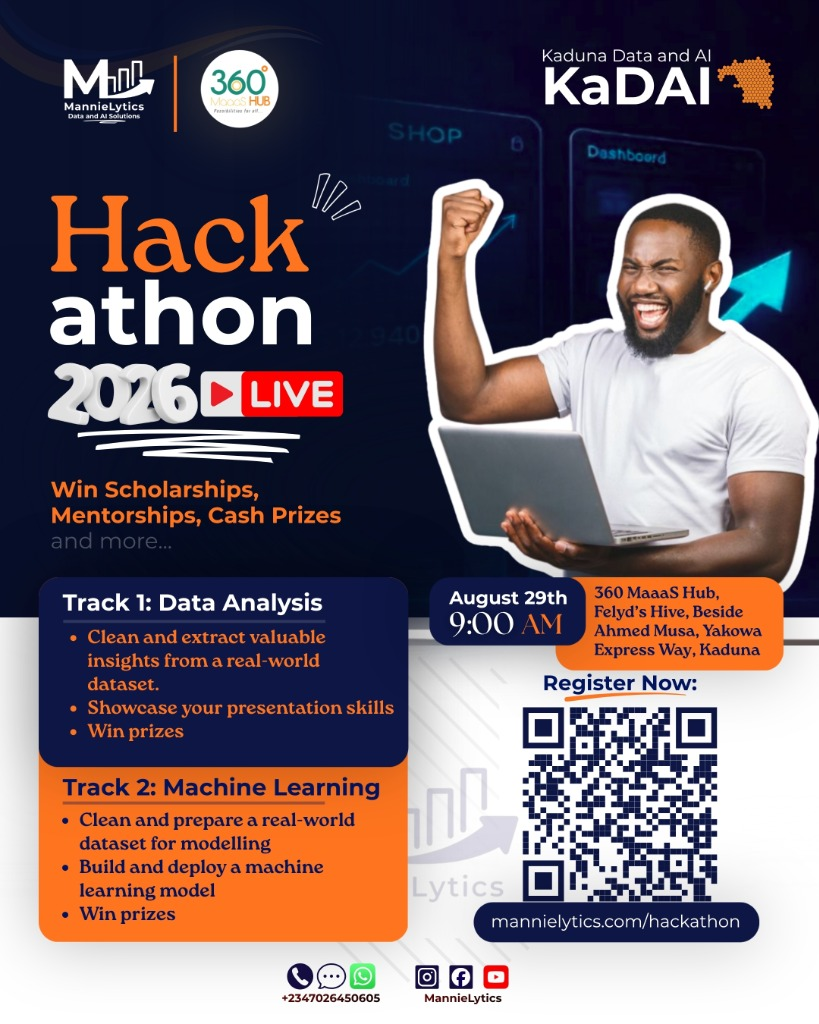
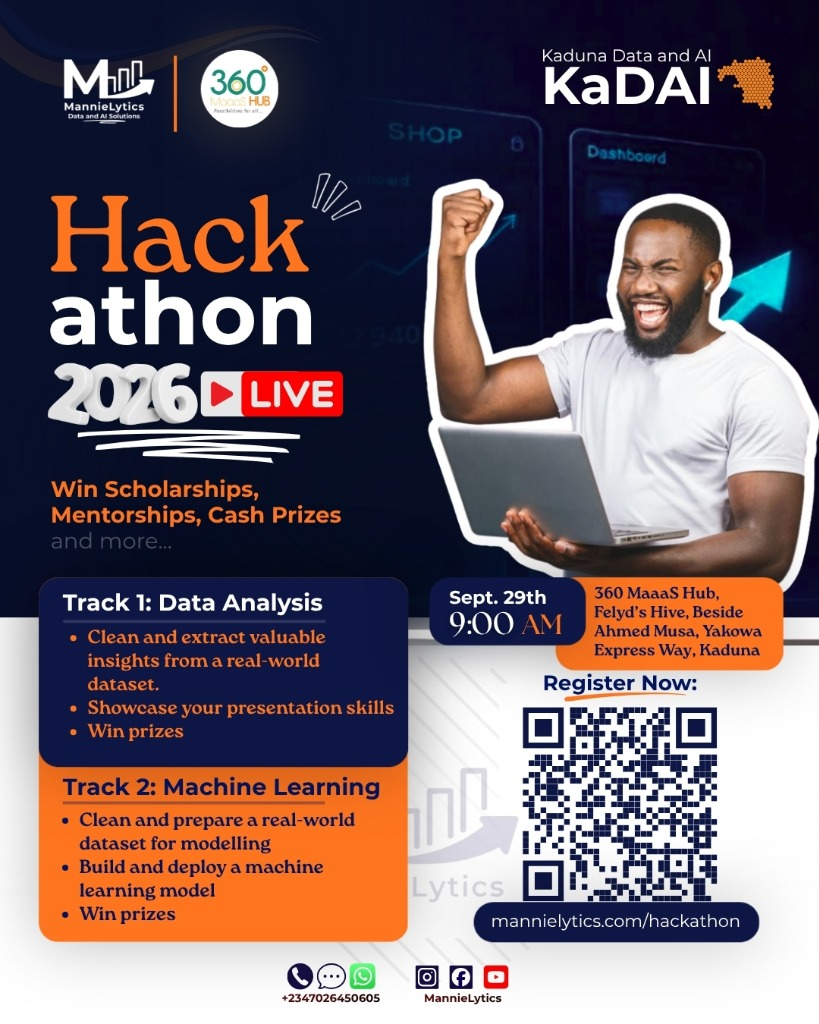
Update hackathon flyer and event date to Sept 29th

diff --git a/templates/core/hackathon.html b/templates/core/hackathon.html
@@ -3,7 +3,7 @@
 
 {% block title %}KaDAI Summit Mini-Hackathon | MannieLytics{% endblock %}
 
-{% block meta_description %}Join the KaDAI Summit Mini-Hackathon on Saturday, August 29, 2026. Turn theoretical knowledge into real-world business insights across Data Analysis & AI/ML tracks.{% endblock %}
+{% block meta_description %}Join the KaDAI Summit Mini-Hackathon on Tuesday, September 29, 2026. Turn theoretical knowledge into real-world business insights across Data Analysis & AI/ML tracks.{% endblock %}
 
 {% block content %}
 <!-- Hero Section -->
@@ -20,7 +20,7 @@
                 <!-- Event Pill -->
                 <div class="inline-flex items-center gap-2 px-4 py-1.5 rounded-full bg-slate-800 border border-slate-700 text-slate-300 text-xs sm:text-sm font-medium">
                     <span class="w-2 h-2 rounded-full bg-emerald-400 animate-pulse"></span>
-                    <span>KaDAI Summit Pre-Event • Saturday, August 29, 2026</span>
+                    <span>KaDAI Summit Pre-Event • Tuesday, September 29, 2026</span>
                 </div>
 
                 <!-- Main Title -->
@@ -37,7 +37,7 @@
                 <div class="pt-2 grid grid-cols-2 sm:grid-cols-4 gap-3 text-left">
                     <div class="p-3 rounded-xl bg-slate-800/80 border border-slate-700/80">
                         <p class="text-[11px] text-slate-400 uppercase font-semibold">Date</p>
-                        <p class="text-xs sm:text-sm font-semibold text-white mt-0.5">Sat, Aug 29, 2026</p>
+                        <p class="text-xs sm:text-sm font-semibold text-white mt-0.5">Tue, Sept 29, 2026</p>
                     </div>
                     <div class="p-3 rounded-xl bg-slate-800/80 border border-slate-700/80">
                         <p class="text-[11px] text-slate-400 uppercase font-semibold">Venue</p>
@@ -49,7 +49,7 @@
                     </div>
                     <div class="p-3 rounded-xl bg-slate-800/80 border border-slate-700/80">
                         <p class="text-[11px] text-slate-400 uppercase font-semibold">Briefing</p>
-                        <p class="text-xs sm:text-sm font-semibold text-white mt-0.5">Fri, Aug 28 (2PM)</p>
+                        <p class="text-xs sm:text-sm font-semibold text-white mt-0.5">Mon, Sept 28 (2PM)</p>
                     </div>
                 </div>
 
@@ -95,7 +95,7 @@
                         <!-- Caption & Support Info -->
                         <div class="mt-3 px-1 flex items-center justify-between text-xs text-slate-400">
                             <span class="font-medium text-slate-300">Organized by MannieLytics & 360° MaaaS Hub</span>
-                            <span class="text-emerald-400 font-semibold">August 29, 2026</span>
+                            <span class="text-emerald-400 font-semibold">September 29, 2026</span>
                         </div>
                     </div>
                 </div>
@@ -127,7 +127,7 @@
                 In recent times, Kaduna has witnessed a surge in data talent training through local tech hubs, online bootcamps, and government-backed initiatives like the 3MTT program. However, a significant gap remains: many learners struggle to translate theoretical knowledge into actionable, real-world business insights and rarely get platforms to showcase their capabilities.
             </p>
             <p class="text-slate-600 text-sm sm:text-base leading-relaxed mt-4">
-                To bridge this gap and officially herald the upcoming <strong>KaDAI Summit</strong>, we are hosting a high-impact, 1-day practical mini-hackathon on <strong>Saturday, August 29, 2026</strong>. Designed for data analysts and AI enthusiasts alike, this event emphasizes project-based learning, problem-solving, and direct exposure to industry experts and regional policymakers.
+                To bridge this gap and officially herald the upcoming <strong>KaDAI Summit</strong>, we are hosting a high-impact, 1-day practical mini-hackathon on <strong>Tuesday, September 29, 2026</strong>. Designed for data analysts and AI enthusiasts alike, this event emphasizes project-based learning, problem-solving, and direct exposure to industry experts and regional policymakers.
             </p>
         </div>
 
@@ -193,7 +193,7 @@
                     <div class="absolute -left-[9px] top-0 w-4 h-4 rounded-full bg-blue-600 border-4 border-white"></div>
                     <div class="flex flex-col sm:flex-row sm:items-center justify-between gap-1">
                         <h4 class="font-bold text-slate-900 text-base">Opening Briefing (Virtual/Hybrid)</h4>
-                        <span class="text-xs font-semibold px-2.5 py-1 rounded bg-slate-100 text-slate-700">Friday, August 28, 2026 • 2:00 PM</span>
+                        <span class="text-xs font-semibold px-2.5 py-1 rounded bg-slate-100 text-slate-700">Monday, September 28, 2026 • 2:00 PM</span>
                     </div>
                     <p class="text-xs text-slate-600 mt-1">Confirm availability, clarify rules, walk through closed sample datasets, and explain deliverables.</p>
                 </div>
@@ -203,7 +203,7 @@
                     <div class="absolute -left-[9px] top-0 w-4 h-4 rounded-full bg-indigo-600 border-4 border-white"></div>
                     <div class="flex flex-col sm:flex-row sm:items-center justify-between gap-1">
                         <h4 class="font-bold text-slate-900 text-base">Hackathon Day Timeline</h4>
-                        <span class="text-xs font-semibold px-2.5 py-1 rounded bg-slate-100 text-slate-700">Saturday, August 29, 2026</span>
+                        <span class="text-xs font-semibold px-2.5 py-1 rounded bg-slate-100 text-slate-700">Tuesday, September 29, 2026</span>
                     </div>
 
                     <div class="grid grid-cols-1 sm:grid-cols-2 gap-3 mt-4">
